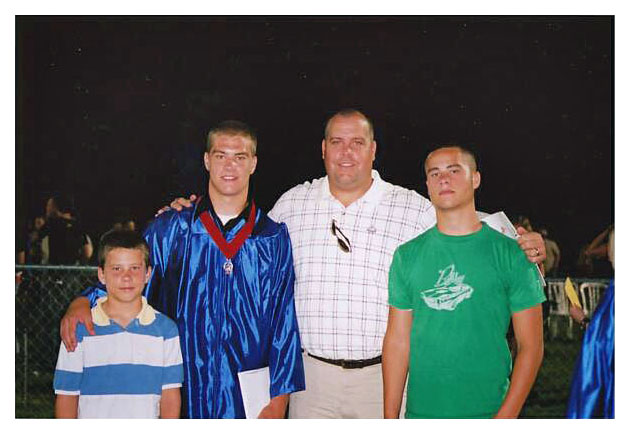
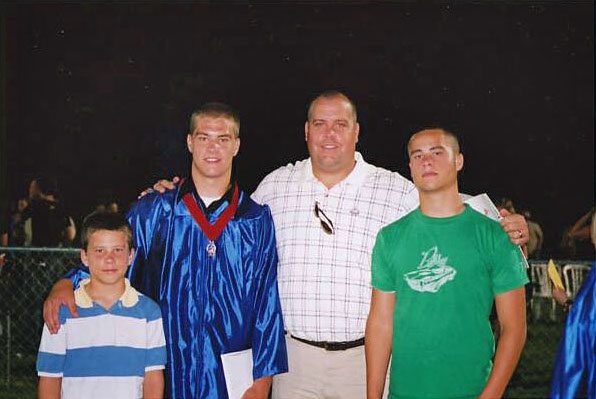
playing with gradient

diff --git a/index.html b/index.html
@@ -42,10 +42,9 @@
 					<div class="container">
 						<h2>We exist to honor Ryan's memory by making a difference in the lives of others. </h2>
 						<p>
-							It is our mission in to continue to raise awareness on the dangers around water, both to children and adults,
+							It is our mission in to continue to raise awareness of the dangers around water, both to children and adults,
 							<br />
-							while 
-							while Gravida dis placerat lectus ante vel nunc euismod eget ornare varius gravida euismod lorem ipsum dolor sit amet.
+							while hosting fundraising events that will contribute to a decrease in local water related accidents.
 						</p>
 					</div>
 				</header>
@@ -127,16 +126,16 @@
 							</div>
 							<div class="8u">
 								<div class="row no-collapse">
-									<div class="6u"><a href="#" class="image fit"><img src="images/pic01.jpg" alt="" /></a></div>
-									<div class="6u"><a href="#" class="image fit"><img src="images/pic02.jpg" alt="" /></a></div>
+									<div class="6u"><a href="#" class="image fit"><img src="images/rtf/IMG_0016.jpg" alt="" /></a></div>
+									<div class="6u"><a href="#" class="image fit"><img src="images/rtf/IMG_2499.jpg" alt="" /></a></div>
 								</div>
 								<div class="row no-collapse">
-									<div class="6u"><a href="#" class="image fit"><img src="images/pic03.jpg" alt="" /></a></div>
-									<div class="6u"><a href="#" class="image fit"><img src="images/pic04.jpg" alt="" /></a></div>
+									<div class="6u"><a href="#" class="image fit"><img src="images/rtf/kevin_with_boys.jpg" alt="" /></a></div>
+									<div class="6u"><a href="#" class="image fit"><img src="images/rtf/IMG_2534.jpg" alt="" /></a></div>
 								</div>
 								<div class="row no-collapse">
-									<div class="6u"><a href="#" class="image fit"><img src="images/pic05.jpg" alt="" /></a></div>
-									<div class="6u"><a href="#" class="image fit"><img src="images/pic06.jpg" alt="" /></a></div>
+									<div class="6u"><a href="#" class="image fit"><img src="images/rtf/ryan8.jpg" alt="" /></a></div>
+									<div class="6u"><a href="#" class="image fit"><img src="images/rtf/IMG_0656.jpg" alt="" /></a></div>
 								</div>
 							</div>
 						</div>
@@ -471,27 +470,13 @@
 				</ul>
 				<div class="copyright">
 					<ul class="menu">
-						<li>&copy; Untitled. All rights reserved.</li><li>Design: <a href="http://html5up.net">HTML5 UP</a></li>
+						<li>The Ryan Thomas Foundation is a registered 501(c) 3 tax exempt organization, Federal Tax ID 26-3764684.</li><li>Design: <a href="http://html5up.net">HTML5 UP</a></li>
 					</ul>
 				</div>
 			</section>
 
 	</body>
 </html>
-
-
-
-
-
-
-
-
-
-<!-- <input type="image" src="https://www.paypalobjects.com/en_US/i/btn/btn_cart_LG.gif" border="0" name="submit" alt="PayPal - The safer, easier way to pay online!">
-
-
-<img alt="" border="0" src="https://www.paypalobjects.com/en_US/i/scr/pixel.gif" width="1" height="1">
-</form> -->
 
 
 

diff --git a/css/style.css b/css/style.css
@@ -810,6 +810,10 @@
 		}
 
 /*********************************************************************************/
+/* paralax                                                                        */
+/*********************************************************************************/
+
+/*********************************************************************************/
 /* Header                                                                        */
 /*********************************************************************************/
 
@@ -817,7 +821,7 @@
 	{
 		position: relative;
 		margin: 0;
-		background-image:			url('images/overlay.png'),			url('../images/header.jpg');
+		background-image:				linear-gradient(45deg, rgba(55, 112,210, .7), rgba(25, 115,150,.7), rgba(54,112, 118, .7)),		url('../images/rtf/water.jpg');
 		background-size:			auto,								cover;
 		background-position:		top left,							center center;
 		background-repeat:			repeat,								no-repeat;
@@ -903,7 +907,7 @@
 				background: #433;
 			}
 			
-			.main > .content.style1
+			.main > .content.style3
 			{
 				background:	url('images/bgtr.svg') top right no-repeat,
 							url('images/bgbl.svg') bottom left no-repeat,
@@ -920,7 +924,7 @@
 							linear-gradient(45deg, #384955, #655361, #85505f);
 			}
 
-			.main > .content.style3
+			.main > .content.style1
 			{
 				background:	url('images/bgtr.svg') top right no-repeat,
 							url('images/bgbl.svg') bottom left no-repeat,
